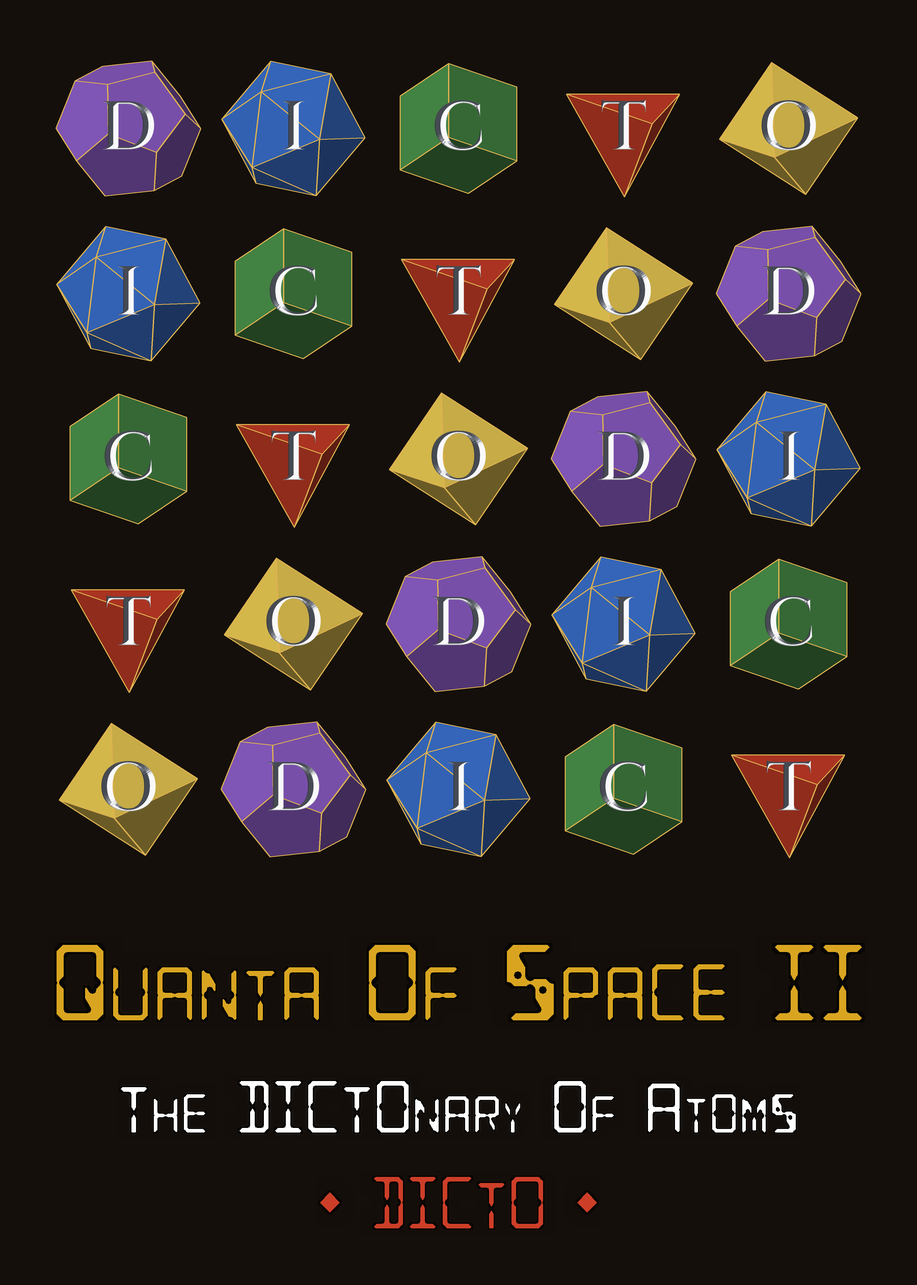
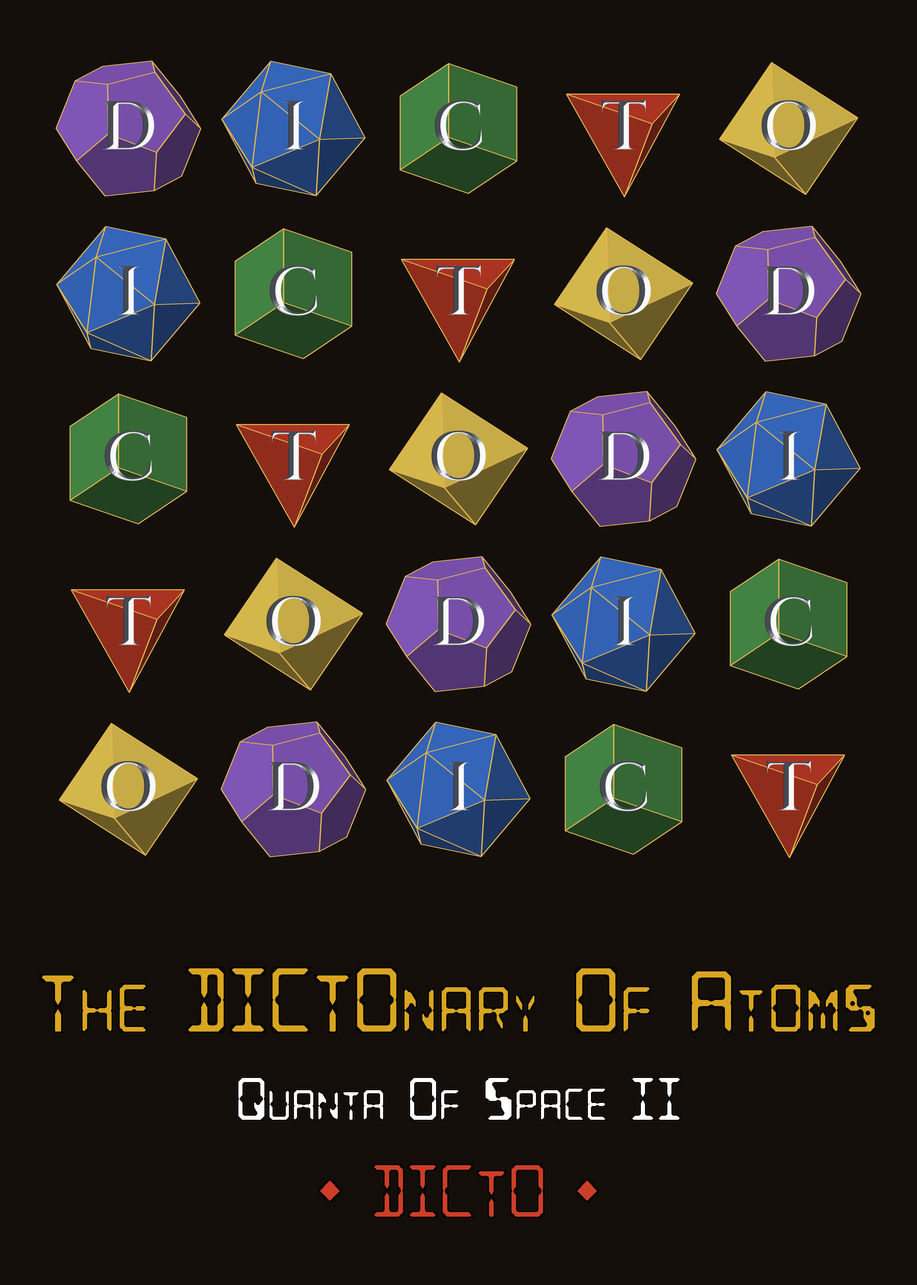
The DICTOnary of Atoms: Quanta of Space II: title order swapped (DICTO 11-03); golden cover approved and official
Main title The DICTOnary of Atoms, subtitle Quanta of Space II, in Volume II (title page, footer, About, metadata title and keywords,
split_volumes.py) and every mention in Volume I. Cover title panel re-rendered (main title gold on one line, subtitle white) for both
squares; old title order kept as -oldtitle. Golden front (DICTO 11-03: "golden cover ok PERFECT") is the only cover in the book
folder; plain square archived in the study only.

diff --git a/papers/book-quanta-of-space/paper.html b/papers/book-quanta-of-space/paper.html
@@ -78,12 +78,12 @@ figure { break-inside: avoid; }
 All works, findings and names are DICTO's. Computation, checking and drafting with Claude (Anthropic).<br>
 Licence CC BY-SA 4.0</p>
 <p class="small" style="margin-top:8mm">Book · Volume I · Version 2.0 · 3 November 2026 · DICTO DOI: 10.5281/zenodo.23754454</p>
-<p class="small" style="margin-top:2mm">Volume II: <i>Quanta of Space II: The DICTOnary of Atoms</i>, the catalogue of all the atoms, the data work by work and the known and rediscovered shapes (DICTO DOI to be reserved).</p>
+<p class="small" style="margin-top:2mm">Volume II: <i>The DICTOnary of Atoms: Quanta of Space II</i>, the catalogue of all the atoms, the data work by work and the known and rediscovered shapes (DICTO DOI to be reserved).</p>
 <div class="status" style="text-align:left;margin-top:5mm;break-inside:avoid"><b>DRAFT, Volume I, Version 2.0, 3 November 2026, for DICTO's reading. Not published.</b> Delete this box at publication.
 <ul style="margin:1mm 0 0;padding-left:5mm">
 <li><b>Names for DICTO (#86, placeholders):</b> the new HexOct family tiles are in the catalogue as D112 A · HexOct 3/8 h-tile, the twisted cube; D113 and D114 B · HexOct −1/8 (whole octahedra) c-tile and h-tile; D115 and D116 C · HexOct −1/8 c-tile and h-tile; D117 D · HexOct −11/24 c-tile; D118 E · HexOct 1/10 c-tile; and, as known shapes, A's c-tile (the brick of two cubes) and D's h-tile (the regular hexagonal prism). E's h-tile is #75's h-tile (D111), corners matched. Each carries “(placeholder name)” until DICTO names it.</li>
 <li>Works #79 to #87 are not yet told in short in this book: they come in the next version (DICTO, 3 November 2026). The new shapes of #86 and the Vacuus forms of #87 are already in the catalogue of Volume II.</li>
-<li><b>Volume II</b>, <i>Quanta of Space II: The DICTOnary of Atoms</i>: its DICTO DOI is to be reserved; then it is named on this title page, in the pointer at the end of Chapter 1 and in this record (related identifier isSupplementedBy).</li>
+<li><b>Volume II</b>, <i>The DICTOnary of Atoms: Quanta of Space II</i>: its DICTO DOI is to be reserved; then it is named on this title page, in the pointer at the end of Chapter 1 and in this record (related identifier isSupplementedBy).</li>
 <li>D·I·C·T·O order: set in the #44 lead and the A.45 lists (now in Volume II); left as they are because they follow a picture or an order in space: the captions of Figures 44 (panel order) and 47 (bottom to top), Plato's elements, nesting orders and tables of the published papers.</li>
 </ul></div>
 </section>
@@ -93,7 +93,7 @@ Licence CC BY-SA 4.0</p>
 <section class="page contents">
 <img class="logo" src="../dicto-logo.png" alt="DICTO" style="width:22mm">
 <h1>Contents</h1>
-<p style="font: 9.5pt 'DejaVu Sans', sans-serif;">What this work holds<br>Introduction: Quanta of Space<br>73 works: 71 papers in six chapters, then the Kaleidohedra findings and the data set (numbers are the paper numbers on dictospheres.com)<br>In Volume II, <i>Quanta of Space II: The DICTOnary of Atoms</i>: the catalogue of all the atoms, the data work by work, and the known and rediscovered shapes</p>
+<p style="font: 9.5pt 'DejaVu Sans', sans-serif;">What this work holds<br>Introduction: Quanta of Space<br>73 works: 71 papers in six chapters, then the Kaleidohedra findings and the data set (numbers are the paper numbers on dictospheres.com)<br>In Volume II, <i>The DICTOnary of Atoms: Quanta of Space II</i>: the catalogue of all the atoms, the data work by work, and the known and rediscovered shapes</p>
 
 <h2>Atoms</h2><p class="chap">Single solids, each an exact new piece.</p>
 <ol>
@@ -228,7 +228,7 @@ Licence CC BY-SA 4.0</p>
 <p>DICTO's Rule of Halves (#57) shows that however the layers are stacked, periodic or not, the space between the balls is shared out into pieces of only finitely many kinds, every one borrowed whole or in half from the two pure stackings. That is a finite catalogue of quanta for every close packing there is: the clearest answer this work gives to the old question. Where a cubic layer meets a hexagonal one, a piece is half one and half the other: the Janus c/h pieces stand on the threshold between the two orders. The pieces change only by swapping (the Swap Rule, #61), so every count and every volume is a straight line in one number, the share of hexagonal layers (the Hexagonality Law, #66), and real crystals obey it (#67–#74). And the catalogue closes into just two tiles, one cubic and one hexagonal, that build every stacking in any order: HexOct (#75). <i>The Law gave the pieces; the pieces prove the law.</i></p>
 <h3>Six chapters</h3>
 <p>Read this way, the works fall into six chapters.</p>
-<p><b>Atoms</b> are single solids, each an exact new piece: the DICTO Ogdoecontahedron (OG), the Hecatodihedron, the Jewel, the Hexa, AXE, CLEO and FUJI, the Reuleaux Platonic solids, and the six DICTONIC SOLIDS (Icosaxes, Unborn Axes, Lotus Jewel Axes, Dodecaxes, Samson and Delilah). Their exact shapes are gathered in the data set <i>DICTO Solids: Exact Geometry</i>, where every DICTO solid has a permanent D-number. The catalogue of all the atoms, 132 new shapes of DICTO's and the known shapes the work builds with, is Volume II, <i>Quanta of Space II: The DICTOnary of Atoms</i>.</p>
+<p><b>Atoms</b> are single solids, each an exact new piece: the DICTO Ogdoecontahedron (OG), the Hecatodihedron, the Jewel, the Hexa, AXE, CLEO and FUJI, the Reuleaux Platonic solids, and the six DICTONIC SOLIDS (Icosaxes, Unborn Axes, Lotus Jewel Axes, Dodecaxes, Samson and Delilah). Their exact shapes are gathered in the data set <i>DICTO Solids: Exact Geometry</i>, where every DICTO solid has a permanent D-number. The catalogue of all the atoms, 132 new shapes of DICTO's and the known shapes the work builds with, is Volume II, <i>The DICTOnary of Atoms: Quanta of Space II</i>.</p>
 <p><b>Bonds</b> are about how pieces fill space together: exact kits, packings and lattices, from the Euclid–Kepler–Pacioli Cell to the OG on every stacking. The clearest cases are the three DICTONIC BONDS (golden, keyed and Delian): pairs of solids that fill space together. A DICTONIC BOND is one such pair; the chapter Bonds holds every way pieces join.</p>
 <p><b>Shells</b> are pieces closing into nested layers round a core, like the skins of an onion, each layer filled exactly: the Chain of Karma, the Spheres of Dharma, the Bodhi Seed and Theaetetus.</p>
 <p><b>Cycles</b> are rules that turn one shell into the next and come back round, with or without end: Universal PiTet, the OG family steps, Kyushindo Cores and the shells turned inside out. Shells and cycles are told in full in the book <i>The Golden Cycle</i>.</p>
@@ -633,7 +633,7 @@ Licence CC BY-SA 4.0</p>
 <!--ATOMS POINTER START (the catalogue is Volume II since version 2.0)-->
 <section class="shortch" style="break-before:auto;break-after:page">
 <div class="se"><h2>All the atoms</h2>
-<p>The catalogue of all the atoms, which closed this chapter up to version 1.4, is now a book of its own: Volume II, <i>Quanta of Space II: The DICTOnary of Atoms</i>. It lists every named shape of the work, one quantum of space each: DICTO's 132 new shapes with their D-numbers, his 37 new clusters, structures and networks, and the known and rediscovered shapes the work builds with, each with its picture, data and source. It also holds the data, work by work, cited in this volume as “Data: Volume II, A.n”.</p></div>
+<p>The catalogue of all the atoms, which closed this chapter up to version 1.4, is now a book of its own: Volume II, <i>The DICTOnary of Atoms</i>. It lists every named shape of the work, one quantum of space each: DICTO's 132 new shapes with their D-numbers, his 37 new clusters, structures and networks, and the known and rediscovered shapes the work builds with, each with its picture, data and source. It also holds the data, work by work, cited in this volume as “Data: Volume II, A.n”.</p></div>
 </section>
 <!--ATOMS POINTER END-->
 <section class="page entry" data-first="1">
@@ -1827,7 +1827,7 @@ Licence CC BY-SA 4.0</p>
 <h1 class="chapter">About the author</h1>
 <p>DICTO is the artist name of (Alan) J. Baker, an artist in Osaka, Japan. His background is architectural sculpture, stonecarving and Buddhist statuary. He trained as an architectural stonecarver at the City and Guilds of London Art School (1998–2001), worked at St James's Palace, and recarved the Roman lettering of the Civil Service Rifles War Memorial at Somerset House, London, for its rededication in 2002. Since 2009 he has worked in Japan in the sculpture and restoration of Buddhist statues, among them a statue at Takaosan Jingo-ji, Kyoto, traditionally attributed to Kōbō Daishi Kūkai.</p>
 <p>He builds geometric sculpture from recycled PET bottles with two modular systems of his own, B1NR and DICTOspheres, joined without glue. He holds six Japanese design registrations; five rest on spherical projections of the Platonic solids, the five forms behind his name: Dodecahedron, Icosahedron, Cube, Tetrahedron, Octahedron. His sculptures have been shown in Kyoto at the Kyoto Municipal Museum of Art (Interdependent Origination III, 2025), the Insho Domoto Museum of Fine Arts, the Kyoto Botanical Garden, the Kansho Exhibition and the Kyoto Takasegawa Art Festival.</p>
-<p>The geometry behind the sculptures led to eighty-nine papers, gathered in <i>DICTO: Collected Geometric Works</i>, and to seven books: <i>Quanta of Space: A Manifesto</i> (this one) and its second volume, <i>Quanta of Space II: The DICTOnary of Atoms</i>, <i>HexOct: The Hexagonality Law</i>, <i>Alicia in Wonderland: The Red &amp; White Queens</i>, <i>The Golden Cycle</i>, <i>Star Cores: Spikes, Halos and Cycles</i> and <i>DICTONIC Bonds: from the Octet to the Rule of Halves</i> (all 2026). Every paper and book is published openly with its own DICTO DOI at Zenodo. More at https://dictospheres.com.</p>
+<p>The geometry behind the sculptures led to eighty-nine papers, gathered in <i>DICTO: Collected Geometric Works</i>, and to seven books: <i>Quanta of Space: A Manifesto</i> (this one) and its second volume, <i>The DICTOnary of Atoms: Quanta of Space II</i>, <i>HexOct: The Hexagonality Law</i>, <i>Alicia in Wonderland: The Red &amp; White Queens</i>, <i>The Golden Cycle</i>, <i>Star Cores: Spikes, Halos and Cycles</i> and <i>DICTONIC Bonds: from the Octet to the Rule of Halves</i> (all 2026). Every paper and book is published openly with its own DICTO DOI at Zenodo. More at https://dictospheres.com.</p>
 </section>
 
 <!--ABOUT END-->

diff --git a/papers/book-quanta-dictonary/paper.html b/papers/book-quanta-dictonary/paper.html
@@ -1,5 +1,5 @@
 <!doctype html>
-<html lang="en"><head><meta charset="utf-8"><title>Quanta of Space II: The DICTOnary of Atoms</title>
+<html lang="en"><head><meta charset="utf-8"><title>The DICTOnary of Atoms: Quanta of Space II</title>
 <link rel="stylesheet" href="../paper.css">
 <style>
 body { font-size: 11pt; line-height: 1.55; }
@@ -65,12 +65,12 @@ figure { break-inside: avoid; }
 
 <!-- ============ COVER ============ -->
 <section class="page coverpage" style="height:252mm;display:flex;justify-content:center;align-items:center">
-<img src="figures/cover/dictonary-cover-front.png" alt="Cover: Quanta of Space II, The DICTOnary of Atoms, DICTO, under the DICTO square of the five Platonic solids of DICTO's name, D I C T O" style="height:248mm;display:block">
+<img src="figures/cover/dictonary-cover-front-golden.png" alt="Cover: The DICTOnary of Atoms, Quanta of Space II, DICTO, under the DICTO square of the Greater Golden Cut solids of the five Platonic solids of DICTO's name, D I C T O" style="height:248mm;display:block">
 </section>
 <section class="page titlepage">
 <img class="big" src="../dicto-logo.png" alt="DICTO">
-<h1>Quanta of Space II</h1>
-<p class="sub">The DICTOnary of Atoms</p>
+<h1>The DICTOnary of Atoms</h1>
+<p class="sub">Quanta of Space II</p>
 <p class="by">DICTO</p>
 <p class="small">artist, Osaka, Japan · contact@dictospheres.com · https://dictospheres.com<br>
 All works, findings and names are DICTO's. Computation, checking and drafting with Claude (Anthropic).<br>
@@ -1434,7 +1434,7 @@ Licence CC BY-SA 4.0</p>
 <h1 class="chapter">About the author</h1>
 <p>DICTO is the artist name of (Alan) J. Baker, an artist in Osaka, Japan. His background is architectural sculpture, stonecarving and Buddhist statuary. He trained as an architectural stonecarver at the City and Guilds of London Art School (1998–2001), worked at St James's Palace, and recarved the Roman lettering of the Civil Service Rifles War Memorial at Somerset House, London, for its rededication in 2002. Since 2009 he has worked in Japan in the sculpture and restoration of Buddhist statues, among them a statue at Takaosan Jingo-ji, Kyoto, traditionally attributed to Kōbō Daishi Kūkai.</p>
 <p>He builds geometric sculpture from recycled PET bottles with two modular systems of his own, B1NR and DICTOspheres, joined without glue. He holds six Japanese design registrations; five rest on spherical projections of the Platonic solids, the five forms behind his name: Dodecahedron, Icosahedron, Cube, Tetrahedron, Octahedron. His sculptures have been shown in Kyoto at the Kyoto Municipal Museum of Art (Interdependent Origination III, 2025), the Insho Domoto Museum of Fine Arts, the Kyoto Botanical Garden, the Kansho Exhibition and the Kyoto Takasegawa Art Festival.</p>
-<p>The geometry behind the sculptures led to eighty-nine papers, gathered in <i>DICTO: Collected Geometric Works</i>, and to seven books: <i>Quanta of Space: A Manifesto</i> and its second volume, <i>Quanta of Space II: The DICTOnary of Atoms</i> (this one), <i>HexOct: The Hexagonality Law</i>, <i>Alicia in Wonderland: The Red &amp; White Queens</i>, <i>The Golden Cycle</i>, <i>Star Cores: Spikes, Halos and Cycles</i> and <i>DICTONIC Bonds: from the Octet to the Rule of Halves</i> (all 2026). Every paper and book is published openly with its own DICTO DOI at Zenodo. More at https://dictospheres.com.</p>
+<p>The geometry behind the sculptures led to eighty-nine papers, gathered in <i>DICTO: Collected Geometric Works</i>, and to seven books: <i>Quanta of Space: A Manifesto</i> and its second volume, <i>The DICTOnary of Atoms: Quanta of Space II</i> (this one), <i>HexOct: The Hexagonality Law</i>, <i>Alicia in Wonderland: The Red &amp; White Queens</i>, <i>The Golden Cycle</i>, <i>Star Cores: Spikes, Halos and Cycles</i> and <i>DICTONIC Bonds: from the Octet to the Rule of Halves</i> (all 2026). Every paper and book is published openly with its own DICTO DOI at Zenodo. More at https://dictospheres.com.</p>
 </section>
 
 <!--ABOUT END-->

diff --git a/papers/book-quanta-dictonary/split_volumes.py b/papers/book-quanta-dictonary/split_volumes.py
@@ -2,7 +2,8 @@
 #   Volume I  (book-quanta-of-space/paper.html): "Quanta of Space: A Manifesto", version 2.0, same concept DOI 10.5281/zenodo.23754454:
 #             front matter, Introduction, Chapters 1-6 with their narrative entries, Findings and apps (narrative: Kaleidohedra and the
 #             data set told as entries), About the author. Where the catalogue stood at the end of Chapter 1: a short pointer.
-#   Volume II (book-quanta-dictonary/paper.html): "Quanta of Space II: The DICTOnary of Atoms", new book, DOI to be reserved:
+#   Volume II (book-quanta-dictonary/paper.html): "The DICTOnary of Atoms: Quanta of Space II" (title order since 2026-11-03, DICTO: main title The DICTOnary
+#             of Atoms, subtitle Quanta of Space II), new book, DOI to be reserved:
 #             cover, title page, how to read an entry, contents, the catalogue of all the atoms (with Not drawn here and the clusters,
 #             structures and networks), the data work by work (A.xx), the known and rediscovered shapes, About the author.
 # Source: the v1.5 draft (git 8b71279c). Cross-references: "Data: Appendix A.n" -> "Data: Volume II, A.n" in Volume I; every catalogue
@@ -14,7 +15,8 @@ V1, V2 = 'book-quanta-of-space/paper.html', 'book-quanta-dictonary/paper.html'
 ATOMS = '../studies/2026-10-29-quanta-atoms'
 DATE = '3 November 2026'
 DOI1 = '10.5281/zenodo.23754454'
-T2 = '<i>Quanta of Space II: The DICTOnary of Atoms</i>'
+T2 = '<i>The DICTOnary of Atoms: Quanta of Space II</i>'
+T2S = '<i>The DICTOnary of Atoms</i>'   # in running text where the full form is clumsy
 n_sub = 0
 import csv
 _rows = list(csv.DictReader(l for l in open(f'{ATOMS}/index.csv', encoding='utf8') if not l.startswith('#')))
@@ -64,7 +66,7 @@ a, b = v1.index('<!--ATOMS START-->'), v1.index('<!--ATOMS END-->') + len('<!--A
 POINTER = f'''<!--ATOMS POINTER START (the catalogue is Volume II since version 2.0)-->
 <section class="shortch" style="break-before:auto;break-after:page">
 <div class="se"><h2>All the atoms</h2>
-<p>The catalogue of all the atoms, which closed this chapter up to version 1.4, is now a book of its own: Volume II, {T2}. It lists every named shape of the work, one quantum of space each: DICTO's {NNEW} new shapes with their D-numbers, his {NCL} new clusters, structures and networks, and the known and rediscovered shapes the work builds with, each with its picture, data and source. It also holds the data, work by work, cited in this volume as “Data: Volume II, A.n”.</p></div>
+<p>The catalogue of all the atoms, which closed this chapter up to version 1.4, is now a book of its own: Volume II, {T2S}. It lists every named shape of the work, one quantum of space each: DICTO's {NNEW} new shapes with their D-numbers, his {NCL} new clusters, structures and networks, and the known and rediscovered shapes the work builds with, each with its picture, data and source. It also holds the data, work by work, cited in this volume as “Data: Volume II, A.n”.</p></div>
 </section>
 <!--ATOMS POINTER END-->'''
 v1 = v1[:a] + POINTER + v1[b:]
@@ -130,7 +132,7 @@ n_sub += n_told
 about = cut(SRC, '<!--ABOUT START-->', '<!--ABOUT END-->')
 about = rep(about, ABOUT_OLD, f"and to seven books: <i>Quanta of Space: A Manifesto</i> and its second volume, {T2} (this one), ")
 
-style2 = STYLE.replace('<title>Quanta of Space: A Manifesto</title>', '<title>Quanta of Space II: The DICTOnary of Atoms</title>')
+style2 = STYLE.replace('<title>Quanta of Space: A Manifesto</title>', '<title>The DICTOnary of Atoms: Quanta of Space II</title>')
 style2 = style2.replace('</style></head>', '''.appendix p.told { font: italic 8.8pt "Nimbus Sans", "Liberation Sans", sans-serif; color: #6b5310; margin: -1pt 0 4pt; }
 .howto dt { font-weight: 600; color: #6b5310; margin-top: 6pt; } .howto dd { margin: 1pt 0 0 6mm; }
 .contents ul.app { list-style: none; padding: 0; margin: 0 0 4pt; columns: 2; column-gap: 8mm; font: 8.8pt/1.45 "DejaVu Sans", sans-serif; }
@@ -146,12 +148,12 @@ box2 = f'''<div class="status" style="text-align:left;margin-top:5mm;break-insid
 </ul></div>'''
 title2 = f'''<!-- ============ COVER ============ -->
 <section class="page coverpage" style="height:252mm;display:flex;justify-content:center;align-items:center">
-<img src="figures/cover/dictonary-cover-front.png" alt="Cover: Quanta of Space II, The DICTOnary of Atoms, DICTO, under the DICTO square of the five Platonic solids of DICTO's name, D I C T O" style="height:248mm;display:block">
+<img src="figures/cover/dictonary-cover-front-golden.png" alt="Cover: The DICTOnary of Atoms, Quanta of Space II, DICTO, under the DICTO square of the Greater Golden Cut solids of the five Platonic solids of DICTO's name, D I C T O" style="height:248mm;display:block">
 </section>
 <section class="page titlepage">
 <img class="big" src="../dicto-logo.png" alt="DICTO">
-<h1>Quanta of Space II</h1>
-<p class="sub">The DICTOnary of Atoms</p>
+<h1>The DICTOnary of Atoms</h1>
+<p class="sub">Quanta of Space II</p>
 <p class="by">DICTO</p>
 <p class="small">artist, Osaka, Japan · contact@dictospheres.com · https://dictospheres.com<br>
 All works, findings and names are DICTO's. Computation, checking and drafting with Claude (Anthropic).<br>

diff --git a/studies/2026-11-03-dictonary-cover/scripts/cover_title.py b/studies/2026-11-03-dictonary-cover/scripts/cover_title.py
@@ -1,9 +1,11 @@
-# Quanta of Space II: The DICTOnary of Atoms, front cover DRAFT (2026-11-03), for DICTO's approval. Same style as the Quanta of Space
-# cover (studies/2026-10-30-quanta-cover, DICTO 10-30: "new matching black cover like others"): the same DICTO square (dicto-square.png,
-# unchanged), the title panel below it in DSEG14 Classic letters with the gaps between segments closed, black outline, soft glow, on the
-# square's dark ground. Lines and colours as Volume I: title gold, subtitle white, DICTO red. Capitals, larger initial capitals (DICTO
-# 10-29). DICTOnary (DICTO's coinage, "DICTO" in "Dictionary"): on the cover in capitals as every line, with the five letters of DICTO at
-# the large initial size and "NARY" at the small size, so the coinage shows. Each line is shrunk if needed to fit 0.92 of the width.
+# The DICTOnary of Atoms: Quanta of Space II, front cover (title order swapped 2026-11-03, DICTO: "The DICTOnary of Atoms" is the MAIN
+# title, "Quanta of Space II" the SUBTITLE). Same style as the Quanta of Space cover (studies/2026-10-30-quanta-cover, DICTO 10-30: "new
+# matching black cover like others"): the DICTO square (SQUARE: dicto-square.png, or the golden dicto-square-golden.png), the title panel
+# below it in DSEG14 Classic letters with the gaps between segments closed, black outline, soft glow, on the square's dark ground. Main
+# title gold, subtitle white, DICTO red, as Volume I. Capitals, larger initial capitals (DICTO 10-29). DICTOnary (DICTO's coinage, "DICTO"
+# in "Dictionary"): in capitals as every line, with the five letters of DICTO at the large initial size and "NARY" at the small size, so
+# the coinage shows. Each line is shrunk if needed to fit 0.92 of the width; the main title stays on one line. The panel keeps the
+# height of the first draft (0.4 N, cover 1800 x 2520) with the spare height shared between the gaps.
 # Functions glyph/word/paste/fit copied from the DICTONIC Bonds cover script (2026-11-03-bonds-cover). Run on dicto-big-brother.
 import os, numpy as np
 from scipy import ndimage
@@ -53,11 +55,12 @@ def fit(text, size, col, big):
     w = word(text, size, lambda ch: col, big=big)
     while w[1].shape[1] > 0.92 * N: size = int(size * 0.97); w = word(text, size, lambda ch: col, big=big)
     print(text, 'size', round(size / N, 4)); return w
-big = fit('QUANTA OF SPACE II', int(N * 0.066), GOLD, (0, 7, 10, 16, 17))     # Q O S as Volume I, and both I of the volume number
-sub = fit('THE DICTONARY OF ATOMS', int(N * 0.042), WHITE, (0, 4, 5, 6, 7, 8, 14, 17))   # T, the five letters of DICTO, O, A
+big = fit('THE DICTONARY OF ATOMS', int(N * 0.066), GOLD, (0, 4, 5, 6, 7, 8, 14, 17))   # T, the five letters of DICTO, O, A
+sub = fit('QUANTA OF SPACE II', int(N * 0.034), WHITE, (0, 7, 10, 16, 17))     # Q O S as Volume I, and both I of the volume number
 by = word('* DICTO *', int(N * 0.042), lambda ch: RED, big=(0, 2, 3, 4, 5, 6, 8))   # every letter of DICTO is an initial (DICTO)
-H = big[1].shape[0] + sub[1].shape[0] + by[1].shape[0] + int(N * 0.16)
+H = int(N * 0.4); ink = big[1].shape[0] + sub[1].shape[0] + by[1].shape[0]; g = (H - ink) / 4   # top margin, two gaps, bottom margin
+assert g > N * 0.02, g
 panel = np.ones((H, N, 3)) * np.array(GROUND, float)
-y = paste(panel, big, N / 2, int(N * 0.02)); y = paste(panel, sub, N / 2, y + int(N * 0.05)); paste(panel, by, N / 2, y + int(N * 0.035))
+y = paste(panel, big, N / 2, int(g)); y = paste(panel, sub, N / 2, y + int(g * 0.8)); paste(panel, by, N / 2, y + int(g * 0.8))
 out = Image.new('RGB', (N, N + H), GROUND); out.paste(sq, (0, 0)); out.paste(Image.fromarray(np.clip(panel, 0, 255).astype(np.uint8)), (0, N))
-out.save(os.environ.get('OUT', '../dictonary-cover-front.png')); print('ok', out.size)
+out.save(os.environ.get('OUT', '../dictonary-cover-front.png')); print('ok', out.size, 'gap', round(g / N, 4))

diff --git a/studies/2026-10-29-quanta-atoms/scripts/atoms.py b/studies/2026-10-29-quanta-atoms/scripts/atoms.py
@@ -2,7 +2,7 @@
 # every named shape of DICTO's work from DICTO Solids (dataset v5, index.csv): DICTO's new shapes in D-number order, then
 # the known and rediscovered shapes the work uses. A shape with exact geometry in the dataset gets its icon (render_atoms.py).
 # Output: atoms-catalogue.html (a block of pages for the book). Usage: atoms.py <index.csv> <icons dir> <out html> [<Volume I paper.html>]
-# Since 2026-11-03 (DICTO: "yes split it with that title") the catalogue is Volume II, Quanta of Space II: The DICTOnary of Atoms
+# Since 2026-11-03 (DICTO: "yes split it with that title") the catalogue is Volume II, The DICTOnary of Atoms: Quanta of Space II
 # (papers/book-quanta-dictonary, icons in its figures/atoms); each entry names the chapter of Volume I (papers/book-quanta-of-space)
 # that tells its work, read from Volume I's paper.html (4th argument; default ../book-quanta-of-space/paper.html beside the icons' book).
 import csv, html, os, re, sys, shutil

diff --git a/studies/2026-11-03-dictonary-cover/scripts/dicto_square_golden.py b/studies/2026-11-03-dictonary-cover/scripts/dicto_square_golden.py
@@ -1,4 +1,4 @@
-# ALTERNATIVE for the Quanta of Space II (The DICTOnary of Atoms) cover, 2026-11-03, comparison only: the DICTO square of
+# ALTERNATIVE for The DICTOnary of Atoms (Quanta of Space II) cover, 2026-11-03, comparison only: the DICTO square of
 # studies/2026-10-22-dicto-square/dicto_square.py with each Platonic solid replaced by its Greater Golden Cut solid of #88
 # (every corner cut at x_G(n) = phi/(2cos(pi/n) + 2 phi) along each edge, n = sides of a face: D 1/3, I T O 1/phi^2 (O = Icosaxes),
 # C ~0.347943). Same letters, poses, scale (equal circumsphere 0.44). v2 (DICTO 11-03: "golden cover in full strength colours

diff --git a/studies/2026-11-03-dictonary-cover/README.md b/studies/2026-11-03-dictonary-cover/README.md
@@ -1,6 +1,6 @@
-# Quanta of Space II: The DICTOnary of Atoms, front cover (DRAFT, 2026-11-03)
+# The DICTOnary of Atoms: Quanta of Space II, front cover (APPROVED 2026-11-03: golden cut atoms, gold letters)
 
-DICTO 11-03: "yes split it with that title": Quanta of Space splits into Volume I (Quanta of Space: A Manifesto, keeps its cover) and Volume II, Quanta of Space II: The DICTOnary of Atoms (DICTO's coinage, "DICTO" in "Dictionary"), which needs a cover in the same Quanta style.
+DICTO 11-03: "yes split it with that title": Quanta of Space splits into Volume I (Quanta of Space: A Manifesto, keeps its cover) and Volume II, The DICTOnary of Atoms: Quanta of Space II (DICTO's coinage, "DICTO" in "Dictionary"), which needs a cover in the same Quanta style.
 
 **Conclusion:** draft front made as Volume I's (studies/2026-10-30-quanta-cover): the same DICTO square (dicto-square.png, unchanged), title panel below in closed DSEG14 letters on the dark ground: QUANTA OF SPACE II gold (0.0611 N after fit), THE DICTONARY OF ATOMS white (0.0417 N) with the five letters of DICTO at the large initial size so the coinage shows, ◆ DICTO ◆ red. **Status:** approved by DICTO 11-03 ("cover ok"), as drafted (the proposed golden-cut square not taken). No KDP wrap yet.
 
@@ -10,3 +10,7 @@ DICTO 11-03: "yes split it with that title": Quanta of Space splits into Volume 
 **Alternative (comparison only, 2026-11-03):** scripts/dicto_square_golden.py -> dicto-square-golden.png: the same square, letters, tones and poses with each solid replaced by its Greater Golden Cut solid of #88 (D at 1/3, I/T/O (Icosaxes) at 1/phi^2, C at ~0.347943; asserted: every original face a golden 2n-gon, ratio phi). The golden faces are drawn a shade lighter (LIFT 0.12 toward white) than the new corner faces so the cut reads. Then cover_title.py with SQUARE=../dicto-square-golden.png OUT=../dictonary-cover-front-golden.png -> dictonary-cover-front-golden.png (1800 x 2520). Side by side with the approved front: ~/Documents/papers-to-read/dictonary-cover-compare.png. The approved cover is unchanged.
 
 **Alternative v2 (2026-11-03, DICTO: "golden cover in full strength colours with golden letters instead of platinum"):** the golden faces now keep exactly the Volume I tones at full strength (the 12% lift toward white is gone); the cut reads by the new corner faces drawn 12% toward black (DARK=0.12) plus the existing gold edge lines. The carved letters are gold leaf instead of platinum (same V-groove, cast lip shadow and mask; shadow (120,85,20) -> mid (212,170,60) -> highlight (255,225,140), tone curve GAMMA=1.6, specular 0.5 toward (255,236,170)) with a 2.5 px dark-bronze outline (58,38,8) on every letter so gold reads on every tone, the gold O included; all 25 letters checked at full size. Geometry, poses and title panel unchanged. Previous front kept as dictonary-cover-front-golden-v1.png; comparison sheet updated ("alternative: golden cut atoms, gold letters").
+
+**Title order swapped (2026-11-03, DICTO):** "The DICTOnary of Atoms" is the main title and "Quanta of Space II" the subtitle: The DICTOnary of Atoms: Quanta of Space II. cover_title.py now sets THE DICTONARY OF ATOMS in gold as the main title on one line (0.0511 N after fit, the five letters of DICTO at the large initial size as before), QUANTA OF SPACE II in white as the subtitle (0.0339 N), ◆ DICTO ◆ red unchanged; the panel keeps its height (0.4 N, cover 1800 x 2520), the spare height shared between the gaps. Both fronts re-rendered: dictonary-cover-front.png (plain square) and dictonary-cover-front-golden.png (golden square); the previous title order kept as dictonary-cover-front-oldtitle.png and dictonary-cover-front-golden-oldtitle.png. Comparison sheet ~/Documents/papers-to-read/dictonary-cover-compare.png redrawn (plain left, golden right). The golden front is page 1 of the Volume II draft.
+
+**Approved by DICTO 11-03 (golden cut atoms, gold letters):** "golden cover ok PERFECT". The golden front with the new title order (dictonary-cover-front-golden.png) is the official cover of The DICTOnary of Atoms: Quanta of Space II, in papers/book-quanta-dictonary/figures/cover/ as the only cover file. The plain-square front (dictonary-cover-front.png, dicto-square.png) is kept here as an archive file only, no longer in the book folder.

diff --git a/studies/2026-10-29-quanta-atoms/README.md b/studies/2026-10-29-quanta-atoms/README.md
@@ -7,4 +7,4 @@ DICTO 2026-10-29: Quanta of Space is the overview book, with "all the atoms" as 
 - scripts/render_atoms.py (dicto-big-brother): icons from solids/*.json (polygon faces, Newell normals).
 - scripts/atoms.py: index.csv → papers/book-quanta-of-space/atoms-catalogue.html, inserted between <!--ATOMS START--> and <!--ATOMS END--> in paper.html.
 - Quanta v1.5 draft (2026-11-03): index.csv brought to DICTO Solids v7 (Kagemusha, D106–D109) plus the 16 golden cut solids of #88 and #89 (14 new ones with D— until DICTO confirms the numbers; the two Golden Cut Icosidodecahedra rediscovered, Zefiro 2011). scripts/new_atoms.py (dicto-big-brother, with gcb.py and data/s2b-rhombic.json of studies/2026-11-03-golden-cuts-beyond-plato) writes their models, drawn by render_atoms.py as icons/piece-*.png; atoms.py lists D— rows with the atoms.
-- Split (2026-11-03, DICTO: "yes split it with that title"): the catalogue is now Volume II, Quanta of Space II: The DICTOnary of Atoms (papers/book-quanta-dictonary; icons moved to its figures/atoms). atoms.py takes Volume I's paper.html as 4th argument and names under each entry the chapter of Volume I that tells it; picture borrowing stays off (BORROW=1 to turn it on). D-numbers in strict order of first publication (DICTO 11-03): D110–D111 the HexOct c- and h-tile of #75 (at λ = 1/10, the paper's figure weight); D112–D118 the new tiles of #86's family (placeholder names; A's brick and D's hexagonal prism are classical, known shapes; E's h-tile is #75's, corners matched); D119–D126 #88's eight in D·I·C·T·O order, D127–D132 #89's rhombic dodecahedra, rhombic triacontahedra and snub dodecahedra. #87's Vacuus forms are structures (no number), listed by sub-family. Run through papers/book-quanta-dictonary/split_volumes.py.
+- Split (2026-11-03, DICTO: "yes split it with that title"): the catalogue is now Volume II, The DICTOnary of Atoms: Quanta of Space II (papers/book-quanta-dictonary; icons moved to its figures/atoms). atoms.py takes Volume I's paper.html as 4th argument and names under each entry the chapter of Volume I that tells it; picture borrowing stays off (BORROW=1 to turn it on). D-numbers in strict order of first publication (DICTO 11-03): D110–D111 the HexOct c- and h-tile of #75 (at λ = 1/10, the paper's figure weight); D112–D118 the new tiles of #86's family (placeholder names; A's brick and D's hexagonal prism are classical, known shapes; E's h-tile is #75's, corners matched); D119–D126 #88's eight in D·I·C·T·O order, D127–D132 #89's rhombic dodecahedra, rhombic triacontahedra and snub dodecahedra. #87's Vacuus forms are structures (no number), listed by sub-family. Run through papers/book-quanta-dictonary/split_volumes.py.
